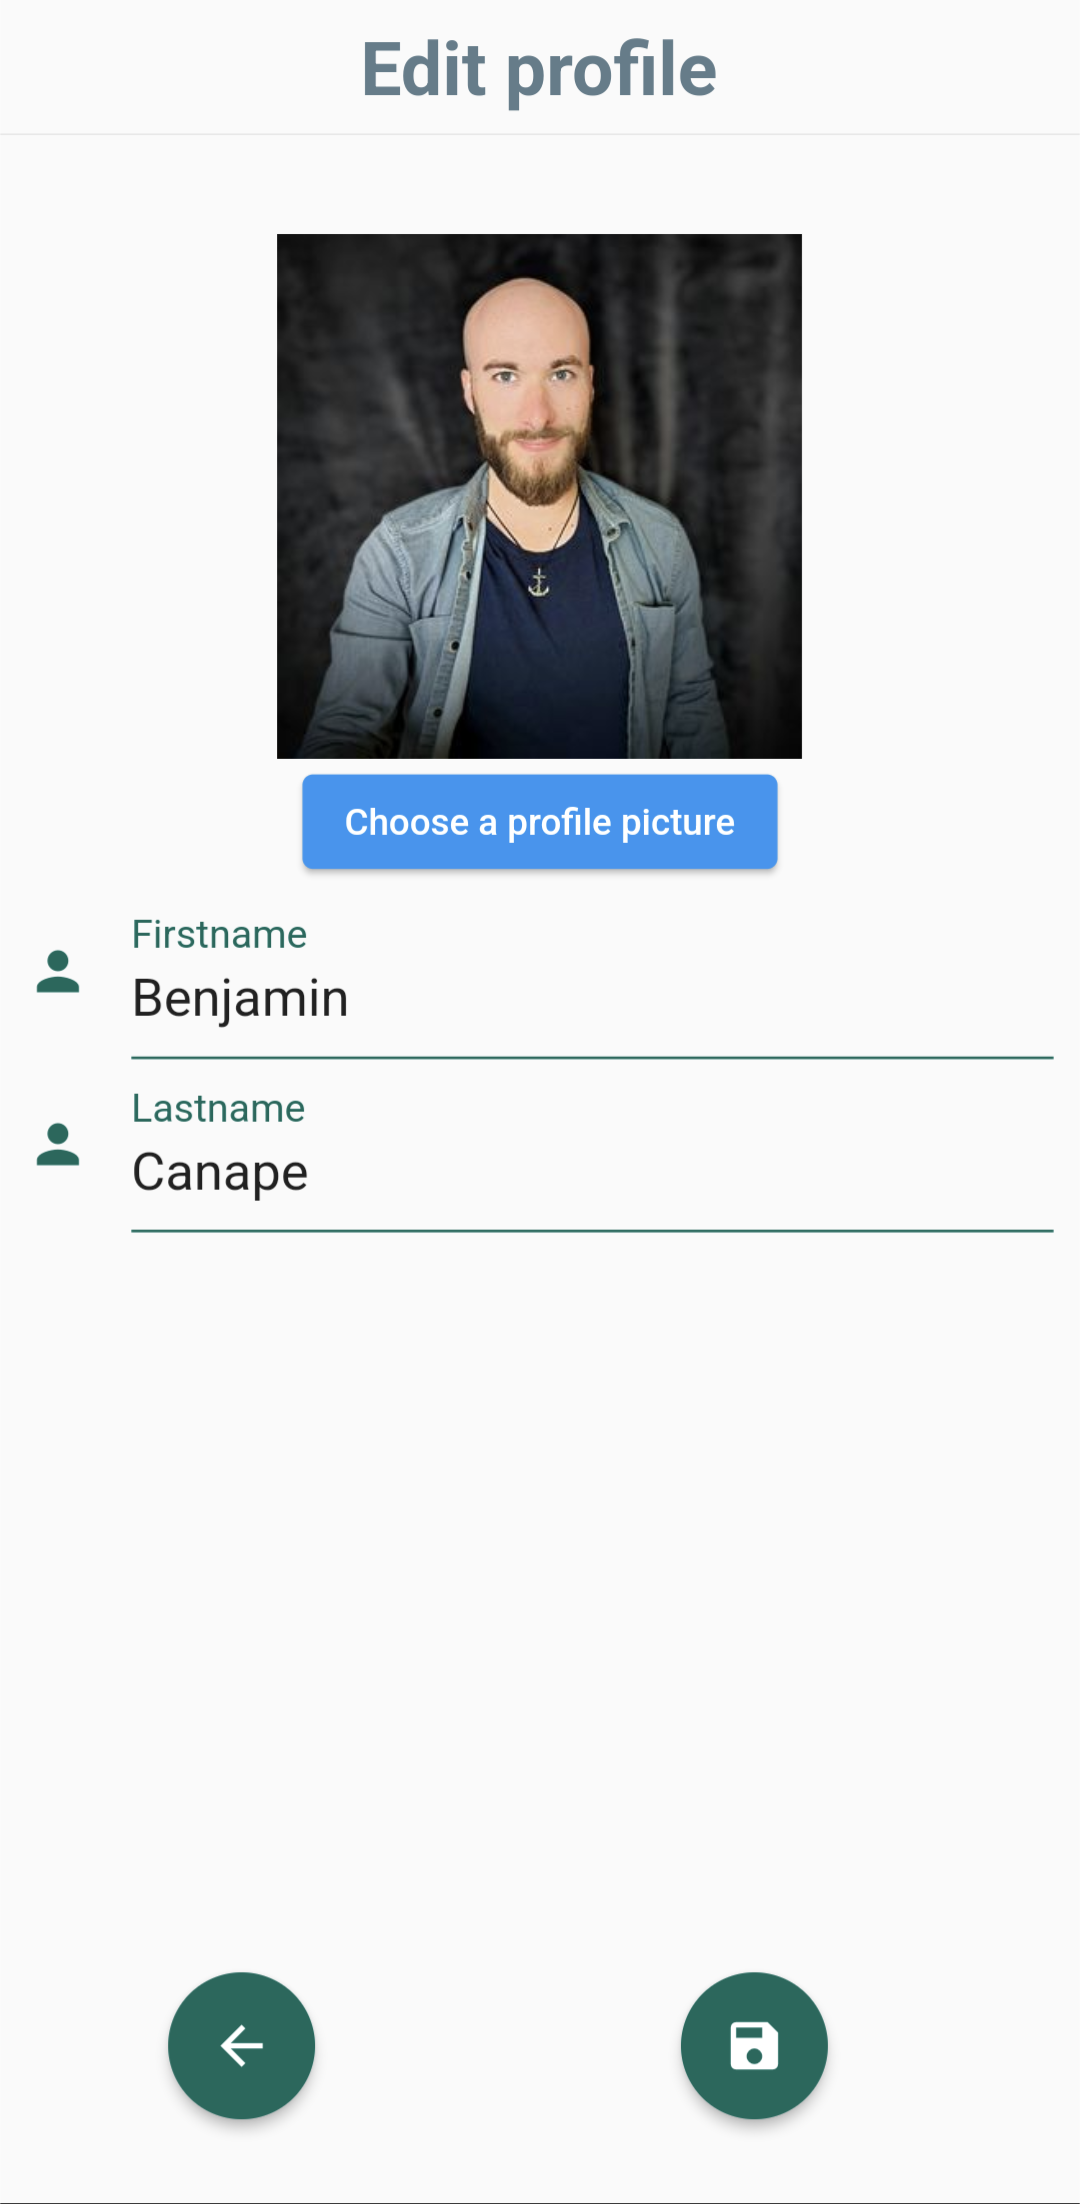
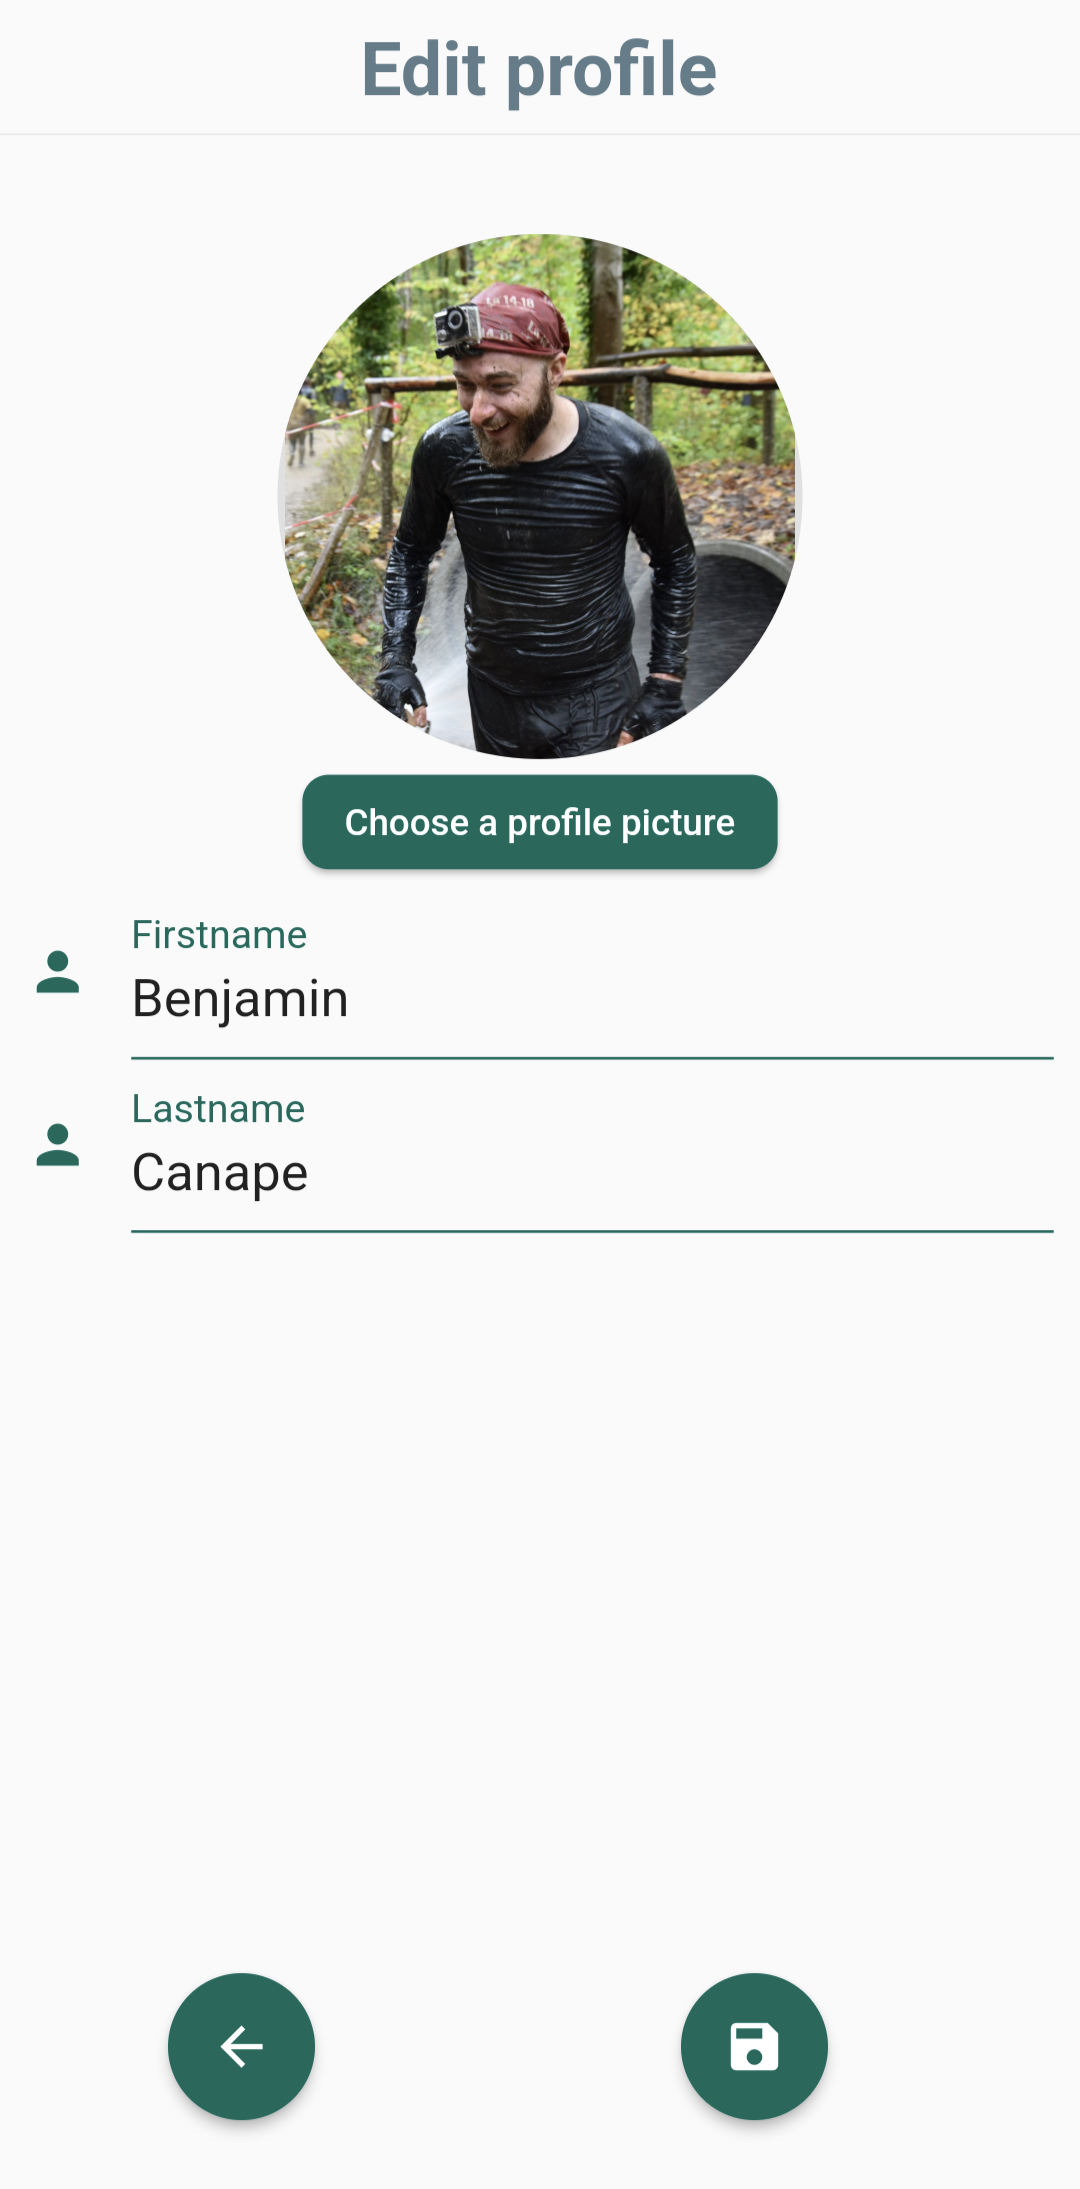
improve profile picture style

diff --git a/lib/presentation/common/core/widgets/upload_file.dart b/lib/presentation/common/core/widgets/upload_file.dart
@@ -5,6 +5,8 @@ import 'package:flutter_gen/gen_l10n/app_localizations.dart';
 import 'package:hooks_riverpod/hooks_riverpod.dart';
 import 'package:image_picker/image_picker.dart';
 
+import '../utils/form_utils.dart';
+
 /// A widget that allow to upload a file
 class UploadFileWidget extends HookConsumerWidget {
   /// The image to display.
@@ -24,16 +26,27 @@ class UploadFileWidget extends HookConsumerWidget {
   @override
   Widget build(BuildContext context, WidgetRef ref) {
     return Column(children: [
-      Container(
-        alignment: Alignment.center,
-        width: 200,
-        height: 200,
-        color: Colors.grey[300],
-        child: image != null
-            ? Image.memory(image!, fit: BoxFit.cover)
-            : Text(AppLocalizations.of(context)!.profile_picture_select_please),
+      ClipRRect(
+        borderRadius: BorderRadius.circular(100),
+        child: Container(
+          alignment: Alignment.center,
+          width: 200,
+          height: 200,
+          color: Colors.grey[300],
+          child: image != null
+              ? Image.memory(image!, fit: BoxFit.cover)
+              : Text(
+                  AppLocalizations.of(context)!.profile_picture_select_please),
+        ),
       ),
       ElevatedButton(
+        style: ButtonStyle(
+          backgroundColor:
+              MaterialStateProperty.all<Color>(Colors.teal.shade800),
+          shape: MaterialStateProperty.all(
+            RoundedRectangleBorder(borderRadius: BorderRadius.circular(10)),
+          ),
+        ),
         onPressed: () async {
           final XFile? pickedImage =
               await _picker.pickImage(source: ImageSource.gallery);

diff --git a/lib/presentation/common/user/screens/profile_screen.dart b/lib/presentation/common/user/screens/profile_screen.dart
@@ -37,18 +37,20 @@ class ProfileScreen extends HookConsumerWidget {
                     child: Row(
                       mainAxisAlignment: MainAxisAlignment.spaceBetween,
                       children: [
-                        Container(
-                          alignment: Alignment.center,
-                          width: 150,
-                          height: 150,
-                          child: state.profilePicture != null
-                              ? Image.memory(
-                                  state.profilePicture!,
-                                  fit: BoxFit.cover,
-                                )
-                              : const Icon(Icons.person, size: 100),
+                        ClipRRect(
+                          borderRadius: BorderRadius.circular(150),
+                          child: Container(
+                            alignment: Alignment.center,
+                            width: 150,
+                            height: 150,
+                            child: state.profilePicture != null
+                                ? Image.memory(
+                                    state.profilePicture!,
+                                    fit: BoxFit.cover,
+                                  )
+                                : const Icon(Icons.person, size: 100),
+                          ),
                         ),
-                        const SizedBox(width: 8),
                         Flexible(
                           child: Text(
                             user.firstname != null && user.lastname != null
